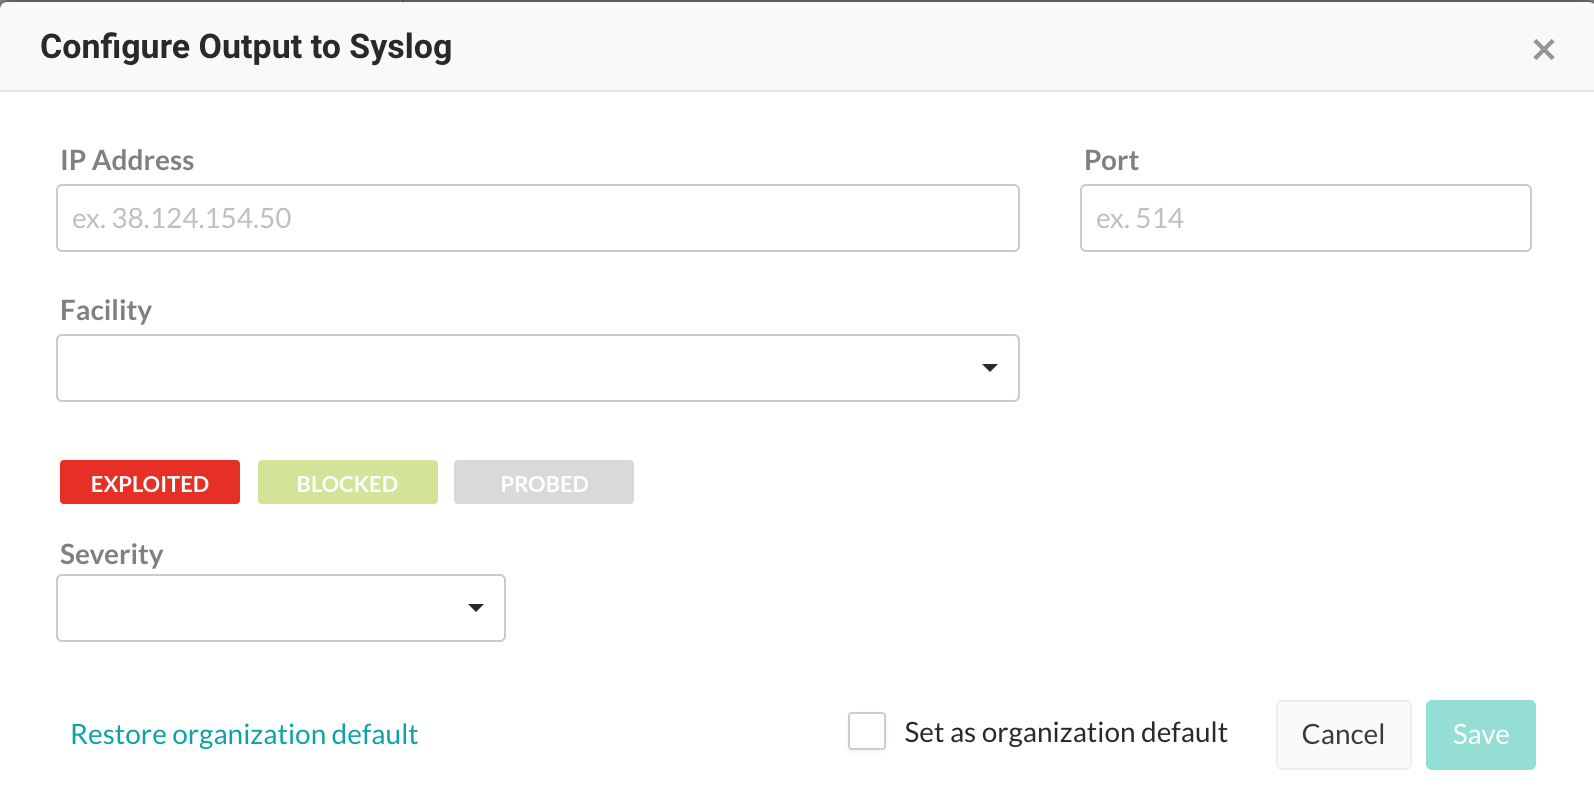
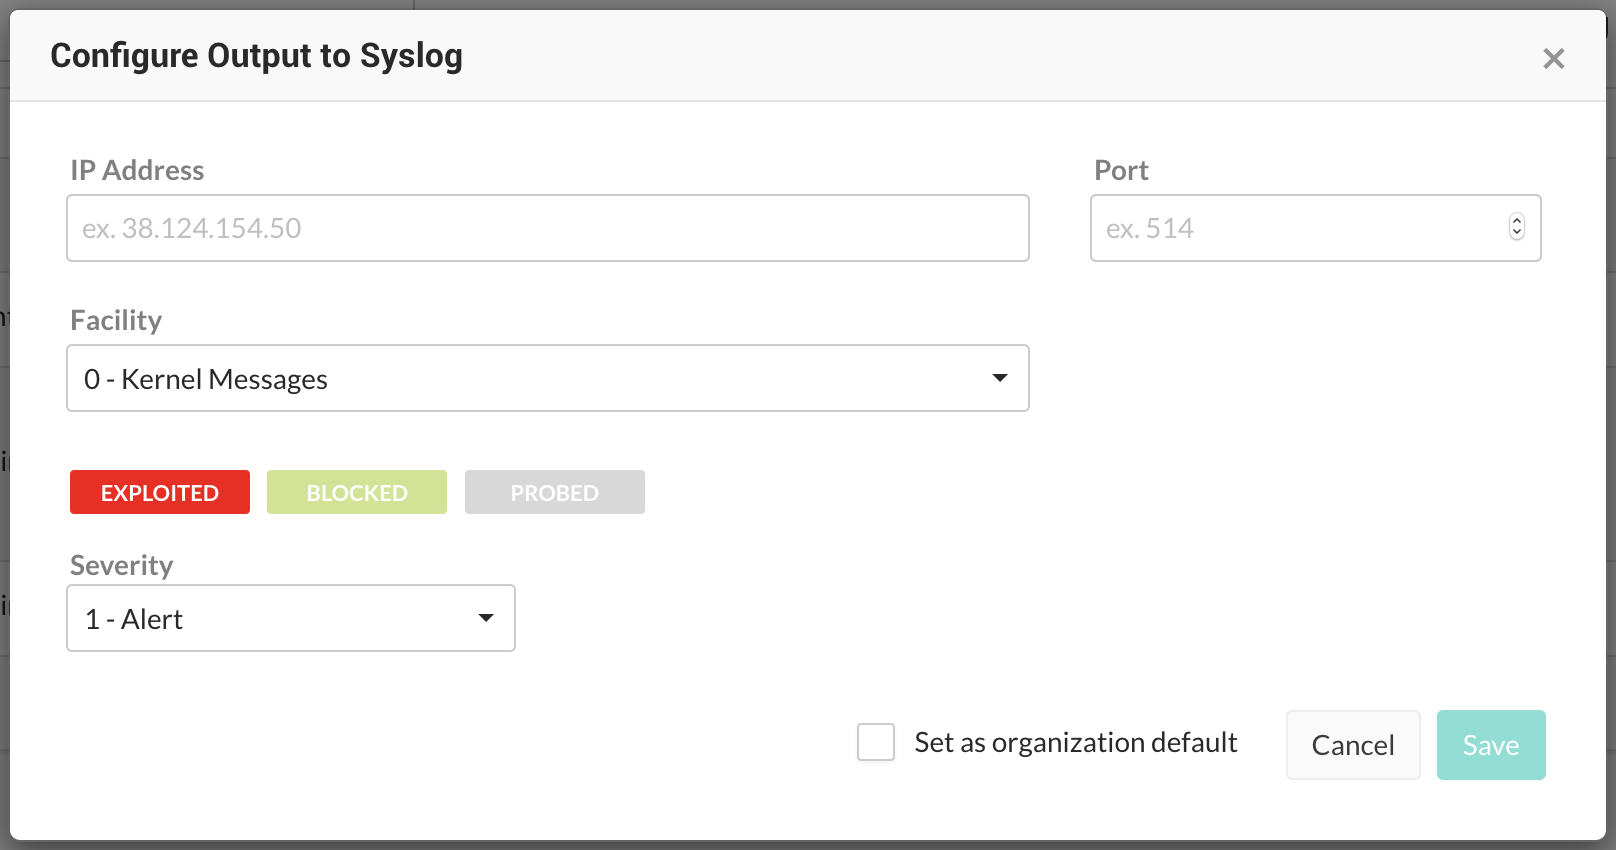
Corrections to final draft

diff --git a/content/user/ui/servers/OutputtoSyslog.md b/content/user/ui/servers/OutputtoSyslog.md
@@ -6,55 +6,56 @@ tags: "Protection Syslog Output"
 
 This feature allows Java clients to send security logs to a remote Syslog server in addition to the Contrast security log. By sending logs to Syslog, you no longer have to monitor Contrast logs. 
 
-> **Note:** The following instructions are written in the context that Protect mode is on for the servers to which you're   applying this feature. If Protect is on, a shield icon appears beside the server name. If Protect is off - either in the row menu or for all selections of a batch action - relevant actions are disabled.
+> **Note:** The following instructions are written in the context that a Protection license has already been applied to the server(s) on which you would like to enable Syslog output. If a Protection license has been applied, a shield icon will appear beside the server name. If no license has been applied, Syslog actions will be disabled in the row menu of an individual server, or ignored for all non-licensed selections within a batch action.
 
 ## Organization Settings
 
-Organization settings act as the default configuration for all new servers. You can set these by choosing **Organization Settings** in the user menu and then **Servers** in the sidebar. Select the checkbox to **Enable output of Protection events to Syslog**, which expands the dialog, and then enter your desired settings.
+Organization settings act as the default configuration for all new servers. You can set these by choosing **Organization Settings** in the User menu and then **Servers** in the sidebar. Select the checkbox to **Enable output of Protection events to Syslog**, which expands the dialog, and then enter your desired settings.
 
 You can toggle through the severity badges to define severity levels for each. The defaults are:
 
-    "1 - Alert" for Exploited
-    "4 - Warning" for Blocked
-    "5 - Notice" for Probed
+* **1 - Alert** for Exploited
+* **4 - Warning** for Blocked
+* **5 - Notice** for Probed
+
 
 ## Servers Grid
 
-In the Servers tab in Contrast, select the server(s) in the table to which you'd like to apply output to Syslog actions. In the row dropdown menu, select **Enable Output to Syslog**. You must enable output to Syslog to see the **Edit** or **Disable** actions.
+From the main **Servers** page, you may enable and configure Syslog output either to individual servers, or to multiple servers at one time (see the Batch Actions section later in this article). To apply to an individual server, select **Enable Output to Syslog** within its row dropdown menu. Note that once Syslog has been enabled, **Edit** and **Disable** actions will also be available.
 
-<a href="assets/images/SyslogServersGridMenu.png" rel="lightbox" title="Servers grid menu"><img class="thumbnail" src="assets/images/SyslogServersGridMenu.png"/></a>
+<a href="assets/images/SyslogServersGridMenu.png" rel="lightbox" title="Individual server row menu"><img class="thumbnail" src="assets/images/SyslogServersGridMenu.png"/></a>
 
 ###Configure output to Syslog
 
-If you choose the **Enable Output to Syslog** action from the dropdown menu, the workflow proceeds directly to the Configure Output to Syslog dialog. 
+If you choose the **Enable Output to Syslog** action, the workflow proceeds directly to a configuration dialog. 
 
-<a href="assets/images/SyslogConfigureOutput.png" rel="lightbox" title="Configure Output to Syslog dialog"><img class="thumbnail" src="assets/images/SyslogConfigureOutput.png"/></a>
+<a href="assets/images/SyslogConfigureOutput.png" rel="lightbox" title="Configure Output to Syslog"><img class="thumbnail" src="assets/images/SyslogConfigureOutput.png"/></a>
 
-* If defaults have been set in **Organization Settings**, those values are shown here. 
+* If Syslog defaults have been set in **Organization Settings**, those values are pre-populated here. 
 * If you change the organization default values, a link to restore them appears. 
-* If there is no organization default, the fields are blank. 
+* If there is no organization default, fields are either blank or default to the first selection of dropdown menu. 
 * If there is a previous configuration other than the organization default, those values are saved and shown with the option to restore the organization defaults. 
-* If no organization default exists, there is a checkbox to set the current configuration as the default. (This option is only available to Organization Admins.)
+* If no organization default exists, there is a checkbox to set the current configuration as the default. (This option is only available to Organization administrators.)
 
-When output to Syslog is enabled on a server, an arrow is added to the Protect shield icon. Hovering over this icon produces a tooltip that includes the location of where protection events are output. 
+When Syslog output is enabled on a server, the shield icon next to the server name is updated to include a blue arrow. Hovering over this icon produces a tooltip with the output location of protection events. 
 
-<a href="assets/images/SyslogProtectLicenseTooltip.png" rel="lightbox" title="Protect License tooltip"><img class="thumbnail" src="assets/images/SyslogProtectLicenseTooltip.png"/></a>
+<a href="assets/images/SyslogProtectLicenseTooltip.png" rel="lightbox" title="Protection License/Syslog tooltip"><img class="thumbnail" src="assets/images/SyslogProtectLicenseTooltip.png"/></a>
 
 ##Batch Actions
 
-Selecting the shield icon in the batch action menu above the servers table reveals the **Protection Licensing and Output** menu, which also offers the **Enable**, **Edit** and **Disable Output to Syslog** actions. These actions are only functional when at least one of the selected servers is eligible, and the action is only applied to the eligible selection(s).
+Selecting one or more servers within the Servers grid will enable the batch action menus, including **Protection Licensing and Output**. Here you will also find the **Enable**, **Edit** and **Disable Output to Syslog** actions. These actions are only functional when at least one of the selected servers is eligible, and the action is only applied to the eligible selection(s).
 
-When you select **Apply Protection License** for one or more servers, the Upgrade License dialog includes a checkbox to **Enable Output to Syslog**. 
-* If checked, the workflow proceeds to the Output Configuration dialog.
-* If a default configuration is set via **Organization Settings**, those default values are prepulated into the dialog fields.
+Licensing is also controlled within this menu, and when you select **Apply Protection License** for one or more servers, the Upgrade License dialog includes a checkbox to **Enable output of Protection events to Syslog**. 
+* If checked, the workflow proceeds to the configuration dialog.
+* If a default configuration is set via **Organization Settings**, those default values are pre-populated into the dialog fields.
 
 When you choose the **Enable Output to Syslog** action from the batch action menu, a dialog appears if any of the selected servers have previous Syslog configurations. You may then decide whether to keep the existing configurations and set up the remaining servers, or to (re)configure all. 
-* If there are no previous configurations, you're taken straight to the Configuration dialog. 
-* If an organization default exists, those default values are prepulated into the dialog fields.
+* If there are no previous configurations, you're taken straight to the configuration dialog. 
+* If an organization default exists, those default values are pre-populated into the dialog fields.
 
 ## Server Settings
 
-From the dropdown menu, the Server Settings dialog includes a checkbox to **Enable output of Protection events to Syslog**. Checking the box expands the dialog to show the configuration, where you can create server-specific Syslog properties, or restore or set up organization defaults.
+You may access an individual server's settings either from its row dropdown menu in the grid, or from the **Server Settings** icon in the top right of that server's Overview page. The Server Settings dialog includes a checkbox to **Enable output of Protection events to Syslog**. Checking the box expands the dialog to show the configuration, where you can create server-specific Syslog properties, as well as restore or set up organization defaults for Syslog.
 
 <a href="assets/images/SyslogServerSettings.png" rel="lightbox" title="Server Settings expanded to show Syslog configuration"><img class="thumbnail" src="assets/images/SyslogServerSettings.png"/></a>
 
